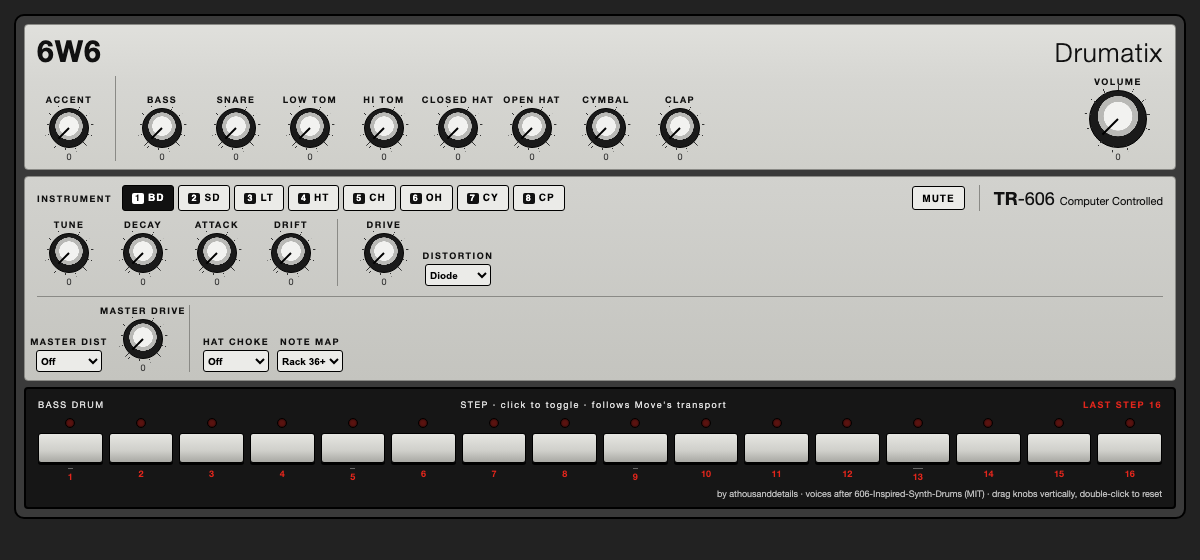
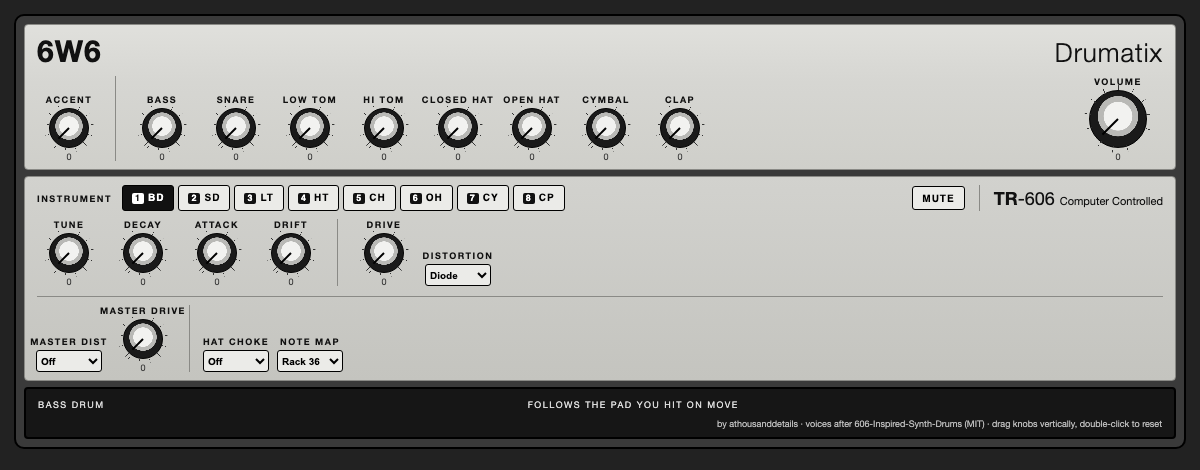
Web panel: drop the step strip, follow the pad you hit on Move
The strip edited the DSP's built-in step lanes, which Move's own step buttons
already drive through the chain patch -- so anything programmed in both
places double-hit. Gus's call: remove it (9W9 has none either).

In its place the panel follows the device: it polls synth:ui_focus_level,
the same '<count>:<page>' the on-device editor watches, and switches
instrument only on a NEW count, so clicking an instrument in the browser is
never yanked away by a stale value, and a page load does not jump.

diff --git a/src/web_ui.html b/src/web_ui.html
@@ -5,10 +5,12 @@
   bridge; every continuous control is a 0-127 pot, mirroring the hardware.
 
   Laid out after the TR-606 itself: brushed silver panels, black legend, red
-  only where it means something (LEDs, step numbers), a row of small level
-  knobs across the top, an INSTRUMENT selector, and the black sequencer strip
-  with sixteen silver step buttons. The strip is real: the DSP's per-lane
-  16-step sequencer (seq_<voice>, seq_pos) is what it edits and shows.
+  only where it means something, a row of small level knobs across the top
+  and an INSTRUMENT selector. No step strip: the DSP's built-in step lanes
+  are driven by Move's own step buttons through the chain patch, and a second
+  editor for them here double-hits anything also programmed on Move. The
+  panel FOLLOWS the device instead: hit a pad and the instrument changes here
+  too (same ui_focus_level counter the on-device editor watches).
 
   GPL-3.0.
 -->
@@ -76,19 +78,6 @@
            padding: 10px 12px 8px; color: #eee; }
   .strip .hdr { display: flex; justify-content: space-between; align-items: center;
                 font-size: 9px; letter-spacing: 1.5px; margin-bottom: 8px; color: #ddd; }
-  .strip .hdr .last { color: var(--red); font-weight: 700; }
-  .steps { display: grid; grid-template-columns: repeat(16, 1fr); gap: 6px; }
-  .step { display: flex; flex-direction: column; align-items: center; gap: 5px; }
-  .led { width: 10px; height: 10px; border-radius: 50%; background: var(--led-off);
-         border: 1px solid #000; box-shadow: inset 0 0 2px #000; }
-  .led.on { background: var(--red); box-shadow: 0 0 6px var(--red), inset 0 0 2px #fff6; }
-  .led.play { background: #ff6a5a; box-shadow: 0 0 9px #ff6a5a; }
-  .step button { width: 100%; height: 30px; border: 1px solid #000; border-radius: 3px;
-                 background: linear-gradient(180deg, #e6e6e2, var(--btn) 60%, #a9a9a4);
-                 cursor: pointer; box-shadow: 0 2px 0 #000; }
-  .step button:active { transform: translateY(1px); box-shadow: 0 1px 0 #000; }
-  .step .num { font-size: 9px; font-weight: 700; color: var(--red); }
-  .step .num.q { border-top: 1px solid #666; padding-top: 2px; }
   .foot { font-size: 9px; color: #bbb; text-align: right; margin-top: 6px; }
 </style>
 </head>
@@ -115,10 +104,8 @@
     <div class="row" id="master" style="margin-top:10px; padding-top:8px; border-top:1px solid #8a8a86"></div>
   </div>
 
-  <!-- the sequencer strip -->
   <div class="strip">
-    <div class="hdr"><span id="lane-name">BASS DRUM</span><span>STEP &middot; click to toggle &middot; follows Move's transport</span><span class="last">LAST STEP 16</span></div>
-    <div class="steps" id="steps"></div>
+    <div class="hdr"><span id="lane-name">BASS DRUM</span><span>FOLLOWS THE PAD YOU HIT ON MOVE</span><span></span></div>
     <div class="foot">by athousanddetails &middot; voices after 606-Inspired-Synth-Drums (MIT) &middot; drag knobs vertically, double-click to reset</div>
   </div>
 </div>
@@ -152,7 +139,7 @@
     { id: "cp", name: "HAND CLAP", extras: [["cp_noise","Noise"]] }
   ];
 
-  var state = {}, widgets = {}, mutesMask = 0, lane = 0, seqMask = 0, seqPos = -1;
+  var state = {}, widgets = {}, mutesMask = 0, lane = 0, focusStamp = "";
   function key(k) { return "synth:" + k; }
   function addWidget(k, fn) { (widgets[k] = widgets[k] || []).push(fn); }
   function send(k, v) {
@@ -162,8 +149,6 @@
   function apply(k, raw) {
     var v = parseInt(raw, 10); if (isNaN(v)) return;
     if (k === "mutes") { mutesMask = v; renderMute(); return; }
-    if (k === "seq_pos") { seqPos = v; renderSteps(); return; }
-    if (k === "seq_" + LANES[lane].id) { seqMask = v; renderSteps(); return; }
     if (widgets[k]) { state[k] = v; widgets[k].forEach(function (fn) { fn(v); }); }
   }
 
@@ -261,32 +246,11 @@
   sel(master, "hh_choke", "Hat Choke", CHOKE);
   sel(master, "note_map", "Note Map", ["Rack 36", "GM"]);
 
-  /* ---- sequencer strip ---- */
-  var stepsEl = document.getElementById("steps"), leds = [], nums = [];
-  for (var s = 0; s < 16; s++) (function (s) {
-    var st = document.createElement("div"); st.className = "step";
-    var led = document.createElement("div"); led.className = "led";
-    var b = document.createElement("button");
-    b.addEventListener("click", function () {
-      seqMask ^= (1 << s);
-      schwungRemote.setParam(key("seq_" + LANES[lane].id), String(seqMask));
-      renderSteps();
-    });
-    var n = document.createElement("div"); n.className = "num" + (s % 4 === 0 ? " q" : ""); n.textContent = s + 1;
-    st.appendChild(led); st.appendChild(b); st.appendChild(n); stepsEl.appendChild(st);
-    leds.push(led);
-  })(s);
-  function renderSteps() {
-    for (var s = 0; s < 16; s++)
-      leds[s].className = "led" + ((seqMask >> s) & 1 ? " on" : "") + (s === seqPos ? " play" : "");
-  }
-
   function selectLane(i) {
     lane = i;
     instBtns.forEach(function (b, j) { b.className = j === i ? "on" : ""; });
     document.getElementById("lane-name").textContent = LANES[i].name;
     buildVoice(); renderMute();
-    schwungRemote.getParam(key("seq_" + LANES[i].id)).then(function (v) { apply("seq_" + LANES[i].id, v); });
     seed();
   }
 
@@ -301,10 +265,21 @@
       schwungRemote.getParam(key(k)).then(function (v) { if (v !== undefined && v !== null && v !== "") apply(k, v); });
     });
   }
-  /* the playhead: seq_pos is -1 when the transport is stopped */
+  /* Follow the device. The DSP publishes "<count>:<page>" on every hand-
+   * played pad (not while the transport runs, same as the on-device editor);
+   * only a NEW count moves the panel, so clicking an instrument here is never
+   * yanked away by a stale value. */
+  var PAGE2LANE = { bd: 0, sd: 1, lt: 2, ht: 3, ch: 4, oh: 5, cy: 6, cp: 7 };
   setInterval(function () {
-    schwungRemote.getParam(key("seq_pos")).then(function (v) { apply("seq_pos", v); });
-  }, 90);
+    schwungRemote.getParam(key("ui_focus_level")).then(function (v) {
+      if (!v || v === focusStamp) return;
+      var first = (focusStamp === "");
+      focusStamp = v;
+      if (first) return;                         /* don't jump on page load */
+      var page = String(v).split(":")[1];
+      if (page in PAGE2LANE && PAGE2LANE[page] !== lane) selectLane(PAGE2LANE[page]);
+    });
+  }, 150);
 
   selectLane(0);
   setTimeout(seed, 400); setTimeout(seed, 1500);
